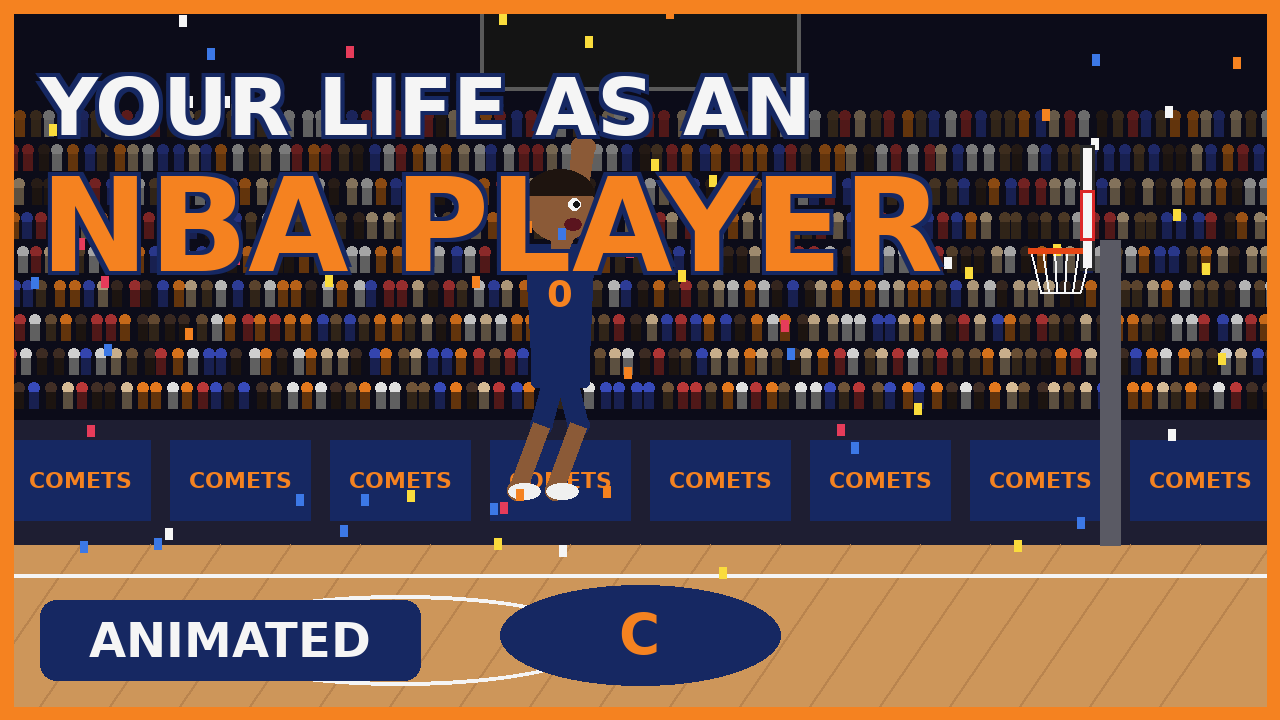
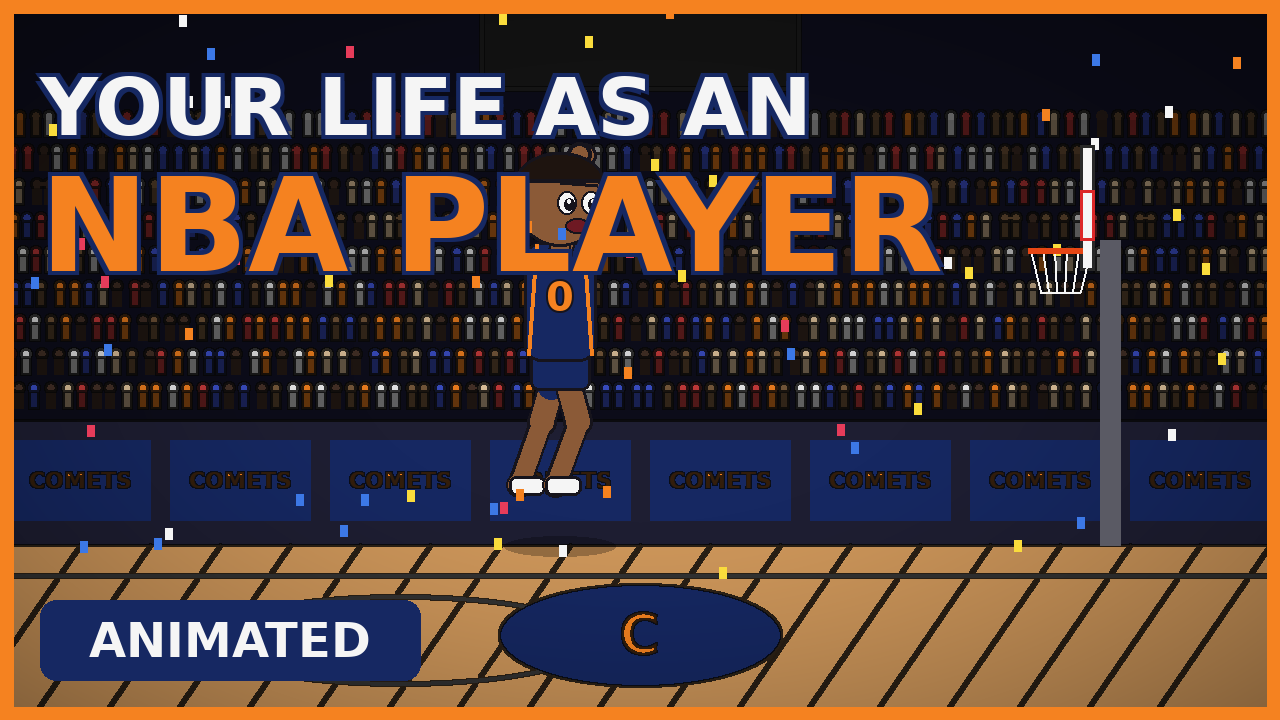
Restyle animation: bold outlined cartoon look, camera zoom, new subtitles
Claude-Session: https://claude.ai/code/session_01RuXReFvzsoakQSHGf4Mz6m

diff --git a/nba-life-video/render.py b/nba-life-video/render.py
@@ -13,7 +13,7 @@ import wave
 from multiprocessing import Pool
 
 import numpy as np
-from PIL import Image, ImageDraw, ImageFont
+from PIL import Image, ImageDraw, ImageFilter, ImageFont
 
 from story import CHANNEL, SCENES, TITLE
 
@@ -38,6 +38,7 @@ def font(size, bold=True):
     return _fonts[key]
 
 
+INK = (22, 20, 28)
 SKIN = (139, 90, 55)
 HAIR = (30, 20, 15)
 NAVY = (22, 40, 98)
@@ -87,7 +88,7 @@ def tri(t, period):
 # --------------------------------------------------------------------- drawing
 
 def draw_ball(d, x, y, r=13):
-    d.ellipse([x - r, y - r, x + r, y + r], fill=BALL, outline=(60, 30, 10), width=2)
+    d.ellipse([x - r, y - r, x + r, y + r], fill=BALL, outline=INK, width=3)
     d.line([x - r, y, x + r, y], fill=(60, 30, 10), width=2)
     d.arc([x - r * 0.5, y - r, x + r * 1.5, y + r], 120, 240, fill=(60, 30, 10), width=2)
     d.arc([x - r * 1.5, y - r, x + r * 0.5, y + r], 300, 60, fill=(60, 30, 10), width=2)
@@ -111,75 +112,105 @@ def limb(p, a, L, f):
     return (p[0] + f * L * math.sin(r), p[1] + L * math.cos(r))
 
 
+def chain(d, pts, widths, color, ink=True):
+    """Draws a two-segment limb: black outline pass first, then colour, so joints stay seamless."""
+    passes = ((INK, 5), (color, 0)) if ink else ((color, 0),)
+    for c, extra in passes:
+        for i in range(len(pts) - 1):
+            w = widths[i] + extra
+            d.line([pts[i], pts[i + 1]], fill=c, width=int(w))
+            for p in (pts[i], pts[i + 1]):
+                r = w / 2
+                d.ellipse([p[0] - r, p[1] - r, p[0] + r, p[1] + r], fill=c)
+
+
 def seg(d, a, b, w, color):
-    d.line([a, b], fill=color, width=int(w))
-    r = w / 2
-    d.ellipse([b[0] - r, b[1] - r, b[0] + r, b[1] + r], fill=color)
+    chain(d, [a, b], [w], color)
+
+
+def shoe(d, a, s, f):
+    box = [a[0] - 7 * s, a[1] - 6 * s, a[0] + 18 * s, a[1] + 7 * s] if f > 0 else \
+          [a[0] - 18 * s, a[1] - 6 * s, a[0] + 7 * s, a[1] + 7 * s]
+    d.rounded_rectangle(box, 5 * s, fill=(245, 245, 245), outline=INK, width=3)
 
 
 def person(d, x, hip_y, s=1.0, outfit="comets", pose=None, facing=1, mouth=0.0,
            mood="happy", eyes_closed=False, head_drop=0.0, skin=SKIN, hair=HAIR):
-    """Draws a cartoon person. Angles: 0 = straight down, positive = toward facing."""
+    """Draws a bold, outlined cartoon person. Angles: 0 = straight down, positive = toward facing."""
     p = dict(fu=15, ff=35, bu=-10, bf=-5, ft=5, fs=0, bt=-5, bs=0)
     if pose:
         p.update(pose)
     shirt, shorts, numc, num = OUTFITS[outfit]
     f = facing
     hip = (x, hip_y)
-    sh = (x, hip_y - 72 * s)
-    lw = 15 * s
+    sh = (x, hip_y - 70 * s)
+    lw = 16 * s
+    long_sleeves = outfit in ("suit", "agent", "hoodie", "gown")
     pants = shorts if outfit not in ("kid", "hs", "college", "comets", "train") else skin
-    # back leg + arm
-    k = limb(hip, p["bt"], 50 * s, f); seg(d, hip, k, lw, shorts if pants != skin else shorts)
-    a = limb(k, p["bs"], 48 * s, f); seg(d, k, a, lw * 0.9, pants)
-    d.ellipse([a[0] - 6 * s, a[1] - 5 * s, a[0] + 16 * s * f if f > 0 else a[0] + 6 * s, a[1] + 6 * s] if f > 0
-              else [a[0] - 16 * s, a[1] - 5 * s, a[0] + 6 * s, a[1] + 6 * s], fill=(240, 240, 240))
-    e = limb(sh, p["bu"], 38 * s, f); seg(d, sh, e, lw * 0.85, shirt if outfit in ("suit", "agent", "hoodie", "gown") else skin)
-    h_back = limb(e, p["bf"], 36 * s, f); seg(d, e, h_back, lw * 0.8, skin)
+    k = limb(hip, p["bt"], 48 * s, f); a = limb(k, p["bs"], 46 * s, f)
+    e = limb(sh, p["bu"], 36 * s, f); h_back = limb(e, p["bf"], 34 * s, f)
+    k2 = limb(hip, p["ft"], 48 * s, f); a2 = limb(k2, p["fs"], 46 * s, f)
+    e2 = limb(sh, p["fu"], 36 * s, f); hand = limb(e2, p["ff"], 34 * s, f)
+    # ground shadow, shrinking as the player leaves the floor
+    lift = max(0.0, GROUND - max(a[1], a2[1]) - 6 * s)
+    sw = 48 * s * max(0.35, 1 - lift / 260)
+    d.ellipse([x - sw, GROUND - 6 * s, x + sw, GROUND + 8 * s], fill=(0, 0, 0, 70))
+    # back limbs
+    chain(d, [hip, k, a], [lw, lw * 0.9], pants if pants != skin else skin)
+    if pants == skin:
+        chain(d, [hip, limb(hip, p["bt"], 22 * s, f)], [lw * 1.2], shorts, ink=False)
+    shoe(d, a, s, f)
+    chain(d, [sh, e, h_back], [lw * 0.85, lw * 0.8], shirt if long_sleeves else skin)
+    d.ellipse([h_back[0] - 7 * s, h_back[1] - 7 * s, h_back[0] + 7 * s, h_back[1] + 7 * s], fill=skin, outline=INK, width=2)
     # front leg
-    k2 = limb(hip, p["ft"], 50 * s, f); seg(d, hip, k2, lw, shorts)
-    a2 = limb(k2, p["fs"], 48 * s, f); seg(d, k2, a2, lw * 0.9, pants)
-    d.ellipse([a2[0] - 6 * s, a2[1] - 5 * s, a2[0] + 16 * s, a2[1] + 6 * s] if f > 0
-              else [a2[0] - 16 * s, a2[1] - 5 * s, a2[0] + 6 * s, a2[1] + 6 * s], fill=(240, 240, 240))
-    # shorts block + torso
-    d.rounded_rectangle([x - 20 * s, hip_y - 14 * s, x + 20 * s, hip_y + 22 * s], 5, fill=shorts)
-    d.polygon([(x - 24 * s, sh[1] - 4 * s), (x + 24 * s, sh[1] - 4 * s),
-               (x + 20 * s, hip_y + 2 * s), (x - 20 * s, hip_y + 2 * s)], fill=shirt)
+    chain(d, [hip, k2, a2], [lw, lw * 0.9], pants)
+    shoe(d, a2, s, f)
+    # shorts + torso
+    d.rounded_rectangle([x - 21 * s, hip_y - 14 * s, x + 21 * s, hip_y + 24 * s], 6 * s, fill=shorts, outline=INK, width=3)
+    d.rounded_rectangle([x - 25 * s, sh[1] - 8 * s, x + 25 * s, hip_y + 4 * s], 12 * s, fill=shirt, outline=INK, width=3)
+    if not long_sleeves:
+        d.line([x - 16 * s, sh[1] - 6 * s, x - 22 * s, hip_y], fill=numc or WHITE, width=max(2, int(3 * s)))
+        d.line([x + 16 * s, sh[1] - 6 * s, x + 22 * s, hip_y], fill=numc or WHITE, width=max(2, int(3 * s)))
     if outfit in ("suit", "agent"):
-        d.polygon([(x - 6 * s, sh[1] - 4 * s), (x + 6 * s, sh[1] - 4 * s), (x, sh[1] + 26 * s)], fill=WHITE)
+        d.polygon([(x - 7 * s, sh[1] - 7 * s), (x + 7 * s, sh[1] - 7 * s), (x, sh[1] + 26 * s)], fill=WHITE)
         d.polygon([(x - 3 * s, sh[1]), (x + 3 * s, sh[1]), (x + 4 * s, sh[1] + 22 * s), (x, sh[1] + 28 * s),
-                   (x - 4 * s, sh[1] + 22 * s)], fill=(200, 40, 40))
+                   (x - 4 * s, sh[1] + 22 * s)], fill=(200, 40, 40), outline=INK)
     if num:
-        fs = font(max(10, int(26 * s)))
-        d.text((x, sh[1] + 30 * s), num, font=fs, fill=numc, anchor="mm")
+        fs = font(max(10, int(28 * s)))
+        d.text((x, sh[1] + 30 * s), num, font=fs, fill=numc, anchor="mm", stroke_width=max(1, int(2 * s)), stroke_fill=INK)
     # front arm
-    e2 = limb(sh, p["fu"], 38 * s, f); seg(d, sh, e2, lw * 0.85, shirt if outfit in ("suit", "agent", "hoodie", "gown") else skin)
-    hand = limb(e2, p["ff"], 36 * s, f); seg(d, e2, hand, lw * 0.8, skin)
-    # head
+    chain(d, [sh, e2, hand], [lw * 0.85, lw * 0.8], shirt if long_sleeves else skin)
+    d.ellipse([hand[0] - 7 * s, hand[1] - 7 * s, hand[0] + 7 * s, hand[1] + 7 * s], fill=skin, outline=INK, width=2)
+    # big cartoon head
     hx = x + f * head_drop * 8 * s
-    hy = sh[1] - 30 * s + head_drop * 10 * s
-    r = 24 * s
-    d.rectangle([x - 6 * s, sh[1] - 12 * s, x + 6 * s, sh[1]], fill=skin)
-    d.ellipse([hx - r, hy - r, hx + r, hy + r], fill=skin)
-    d.chord([hx - r, hy - r - 2 * s, hx + r, hy + r * 0.4], 180, 360, fill=hair)
-    d.ellipse([hx - f * r - 4 * s, hy - 4 * s, hx - f * r + 4 * s, hy + 6 * s], fill=skin)  # ear
-    ex = hx + f * 10 * s
-    ey = hy - 2 * s + head_drop * 3 * s
+    hy = sh[1] - 36 * s + head_drop * 10 * s
+    r = 31 * s
+    d.rectangle([x - 7 * s, sh[1] - 14 * s, x + 7 * s, sh[1]], fill=skin, outline=INK, width=2)
+    d.ellipse([hx - f * r - 6 * s, hy - 3 * s, hx - f * r + 6 * s, hy + 10 * s], fill=skin, outline=INK, width=2)
+    d.ellipse([hx - r, hy - r, hx + r, hy + r], fill=skin, outline=INK, width=3)
+    d.chord([hx - r, hy - r - 3 * s, hx + r, hy + r * 0.25], 180, 360, fill=hair, outline=INK, width=3)
+    ex = hx + f * 13 * s
+    ey = hy + 1 * s + head_drop * 3 * s
+    er = 8 * s
     if eyes_closed:
-        d.line([ex - 5 * s, ey, ex + 5 * s, ey], fill=(20, 20, 20), width=max(1, int(2 * s)))
+        d.arc([ex - er, ey - er, ex + er, ey + er], 20, 160, fill=INK, width=max(2, int(3 * s)))
     else:
-        d.ellipse([ex - 4 * s, ey - 4 * s, ex + 4 * s, ey + 4 * s], fill=WHITE)
-        d.ellipse([ex + f * 1 * s - 2 * s, ey - 2 * s, ex + f * 1 * s + 2.5 * s, ey + 2.5 * s], fill=(20, 20, 20))
-        d.line([ex - 6 * s, ey - 9 * s - (3 * s if mood == "sad" else 0) * 0, ex + 6 * s,
-                ey - 8 * s + (2 * s if mood == "sad" else 0)], fill=hair, width=max(1, int(2 * s)))
-    mx, my = hx + f * 9 * s, hy + 12 * s
+        for ox in (-0.55 * f * er * 1.9, 0.55 * f * er * 1.9):
+            cx = ex + ox
+            d.ellipse([cx - er * 0.8, ey - er, cx + er * 0.8, ey + er], fill=WHITE, outline=INK, width=2)
+            px = cx + f * 2 * s
+            d.ellipse([px - 3.5 * s, ey - 3 * s, px + 3.5 * s, ey + 5 * s], fill=INK)
+            d.ellipse([px - 1.5 * s, ey - 2 * s, px + 0.8 * s, ey + 0.5 * s], fill=WHITE)
+        tilt = 4 * s if mood == "sad" else -1 * s
+        d.line([ex - 13 * s, ey - 13 * s + f * tilt, ex + 13 * s, ey - 13 * s - f * tilt], fill=INK, width=max(2, int(3 * s)))
+    mx, my = hx + f * 12 * s, hy + 17 * s
     if mouth > 0.08:
-        mh = 2 + mouth * 9 * s
-        d.ellipse([mx - 6 * s, my - mh / 2, mx + 6 * s, my + mh / 2], fill=(90, 20, 30))
+        mh = 3 + mouth * 11 * s
+        d.ellipse([mx - 8 * s, my - mh / 2, mx + 8 * s, my + mh / 2], fill=(110, 25, 35), outline=INK, width=2)
     elif mood == "sad":
-        d.arc([mx - 6 * s, my, mx + 6 * s, my + 8 * s], 200, 340, fill=(60, 20, 20), width=max(1, int(2 * s)))
+        d.arc([mx - 8 * s, my, mx + 8 * s, my + 10 * s], 200, 340, fill=INK, width=max(2, int(3 * s)))
     else:
-        d.arc([mx - 7 * s, my - 6 * s, mx + 7 * s, my + 4 * s], 20, 160, fill=(60, 20, 20), width=max(1, int(2 * s)))
+        d.chord([mx - 9 * s, my - 6 * s, mx + 9 * s, my + 6 * s], 0, 180, fill=(110, 25, 35), outline=INK, width=2)
     return dict(hand=hand, back_hand=h_back, head=(hx, hy), sh=sh)
 
 
@@ -198,7 +229,7 @@ def sky(d, top, bot, y1=GROUND):
 
 def bg_image(bg, idx):
     img = Image.new("RGB", (W, H), (0, 0, 0))
-    d = ImageDraw.Draw(img)
+    d = ImageDraw.Draw(img, "RGBA")
     rnd = random.Random(idx * 7 + 3)
     night = idx in (17,)
     if bg == "driveway":
@@ -633,14 +664,13 @@ def extras(d, bg, idx, t, look, action):
 def subtitle(d, text):
     if not text:
         return
-    lines = textwrap.wrap(text, 58)
-    fs = font(30)
-    lh = 40
-    h = lh * len(lines) + 20
-    y0 = H - h - 14
-    d.rounded_rectangle([90, y0, W - 90, y0 + h], 14, fill=(10, 10, 15))
+    lines = textwrap.wrap(text, 52)
+    fs = font(36)
+    lh = 46
+    y0 = H - lh * len(lines) - 22
+    d.rectangle([0, y0 - 12, W, H], fill=(0, 0, 0, 120))
     for i, ln in enumerate(lines):
-        d.text((W / 2, y0 + 10 + lh * i + lh / 2), ln, font=fs, fill=(255, 235, 120), anchor="mm")
+        d.text((W / 2, y0 + lh * i + lh / 2), ln, font=fs, fill=WHITE, anchor="mm", stroke_width=5, stroke_fill=INK)
 
 
 def chapter_card(d, title, t):
@@ -649,9 +679,9 @@ def chapter_card(d, title, t):
     k = ease(t / 0.5) * (1 - ease((t - 4.0) / 0.5))
     w = 40 + font(44).getlength(title)
     x = lerp(-w, 0, k)
-    d.rectangle([x, 120, x + w + 30, 200], fill=ORANGE)
+    d.polygon([(x, 120), (x + w + 60, 120), (x + w + 30, 200), (x, 200)], fill=ORANGE, outline=INK, width=4)
     d.rectangle([x, 200, x + w + 30, 208], fill=NAVY)
-    d.text((x + 30, 160), title, font=font(44), fill=WHITE, anchor="lm")
+    d.text((x + 30, 160), title, font=font(44), fill=WHITE, anchor="lm", stroke_width=3, stroke_fill=INK)
 
 
 def watermark(d):
@@ -677,11 +707,33 @@ def intro_card(d, t):
 
 # ------------------------------------------------------------------- render
 
+def stylize(img):
+    """Ink outlines on every shape plus a soft vignette."""
+    edges = img.convert("L").filter(ImageFilter.FIND_EDGES).filter(ImageFilter.MaxFilter(3))
+    arr = np.asarray(img).astype(np.float32)
+    m = (np.asarray(edges) > 48)[..., None]
+    arr = np.where(m, arr * 0.18 + 6, arr)
+    yy, xx = np.mgrid[0:H, 0:W]
+    dist = np.sqrt(((xx - W / 2) / (W / 2)) ** 2 + ((yy - H / 2) / (H / 2)) ** 2)
+    arr *= (1 - 0.38 * np.clip(dist - 0.45, 0, 1) ** 1.4)[..., None]
+    return Image.fromarray(np.clip(arr, 0, 255).astype(np.uint8))
+
+
+def camera(img, t, total, idx):
+    """Slow push-in (or pull-out on odd scenes) toward the action."""
+    k = ease(t / max(total, 1e-6))
+    z = 1.0 + 0.08 * (k if idx % 2 == 0 else 1 - k)
+    cx, cy = 640 + math.sin(t * 0.15 + idx) * 20, 370
+    hw, hh = W / 2 / z, H / 2 / z
+    cx = min(max(cx, hw), W - hw); cy = min(max(cy, hh), H - hh)
+    return img.resize((W, H), Image.BILINEAR, box=(cx - hw, cy - hh, cx + hw, cy + hh))
+
+
 def render_scene(job):
     idx, scene, nframes, cues, env, path = job
     bg = scene["bg"]
     look = SCENE_LOOK[idx]
-    base = bg_image(bg, idx)
+    base = stylize(bg_image(bg, idx))
     cmd = ["ffmpeg", "-y", "-loglevel", "error", "-f", "rawvideo", "-pix_fmt", "rgb24", "-s", f"{W}x{H}",
            "-r", str(FPS), "-i", "-", "-c:v", "libx264", "-preset", "veryfast", "-crf", "24",
            "-pix_fmt", "yuv420p", path]
@@ -698,11 +750,13 @@ def render_scene(job):
                 text = txt
         action = actions[line_i % len(actions)]
         img = base.copy()
-        d = ImageDraw.Draw(img)
+        d = ImageDraw.Draw(img, "RGBA")
         draw_dynamic_bg(d, bg, t, idx, look)
         extras(d, bg, idx, t, look, action)
         mouth = min(1.0, env[min(fi, len(env) - 1)] * 6)
         act(d, action, t, look, bg, mouth, idx)
+        img = camera(img, t, nframes / FPS, idx)
+        d = ImageDraw.Draw(img, "RGBA")
         if idx == 0:
             intro_card(d, t)
         chapter_card(d, scene["title"], t)

diff --git a/nba-life-video/thumbnail.py b/nba-life-video/thumbnail.py
@@ -1,10 +1,10 @@
 """Renders a YouTube thumbnail (1280x720) for the video."""
 import sys
 from PIL import ImageDraw
-from render import bg_image, act, confetti, font, ORANGE, NAVY, WHITE
+from render import stylize, bg_image, act, confetti, font, ORANGE, NAVY, WHITE
 
-img = bg_image("arena", 14)
-d = ImageDraw.Draw(img)
+img = stylize(bg_image("arena", 14))
+d = ImageDraw.Draw(img, "RGBA")
 act(d, "celebrate", 0.4, ("comets", 1.45), "arena", 0.8, 14)
 d.rectangle([0, 0, 1280, 720], outline=ORANGE, width=14)
 for dx, dy in ((-4, -4), (4, 4), (-4, 4), (4, -4)):
